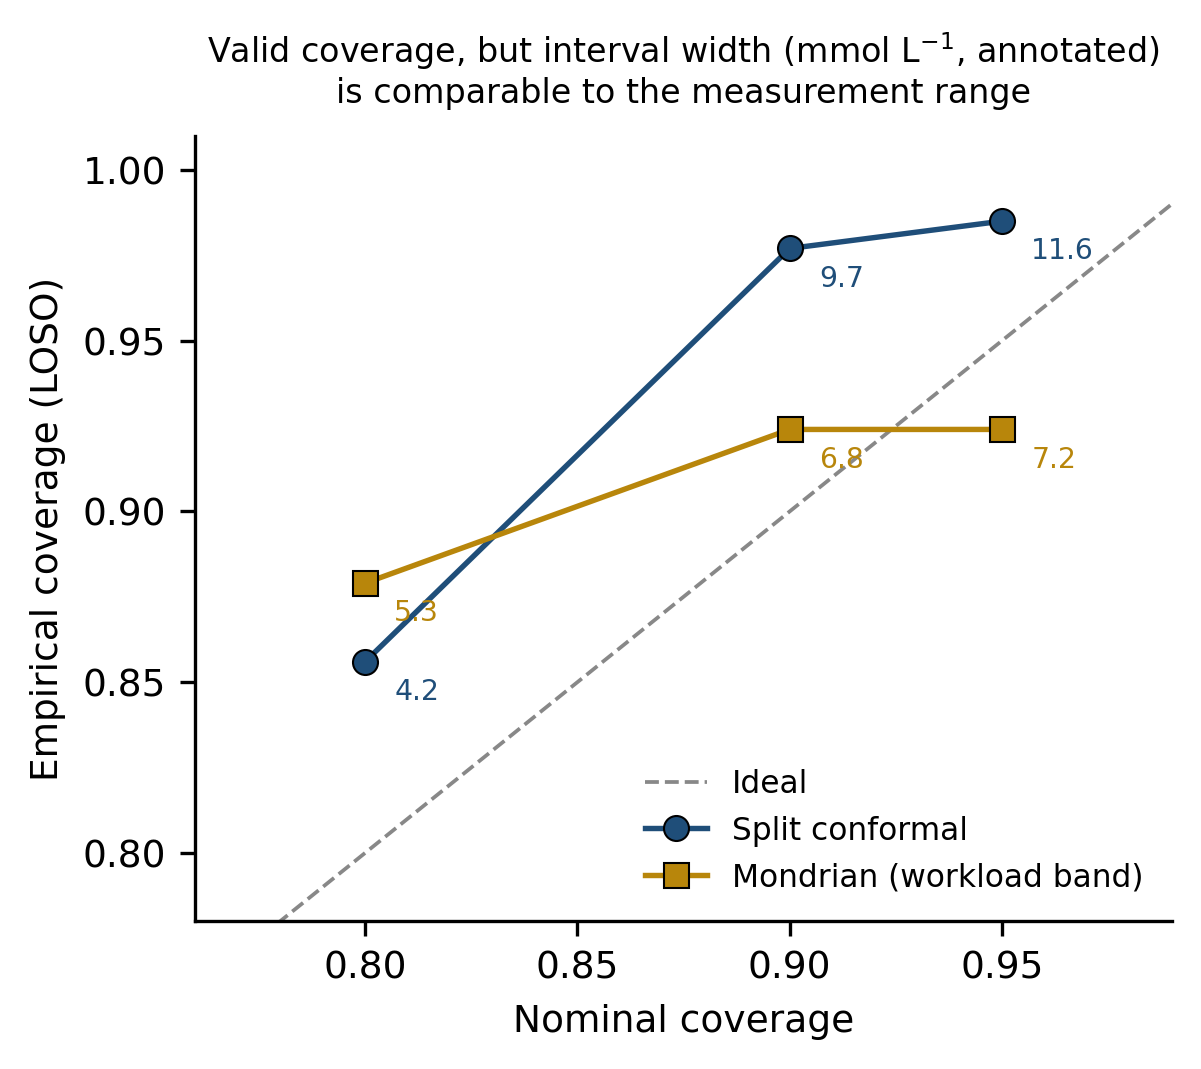
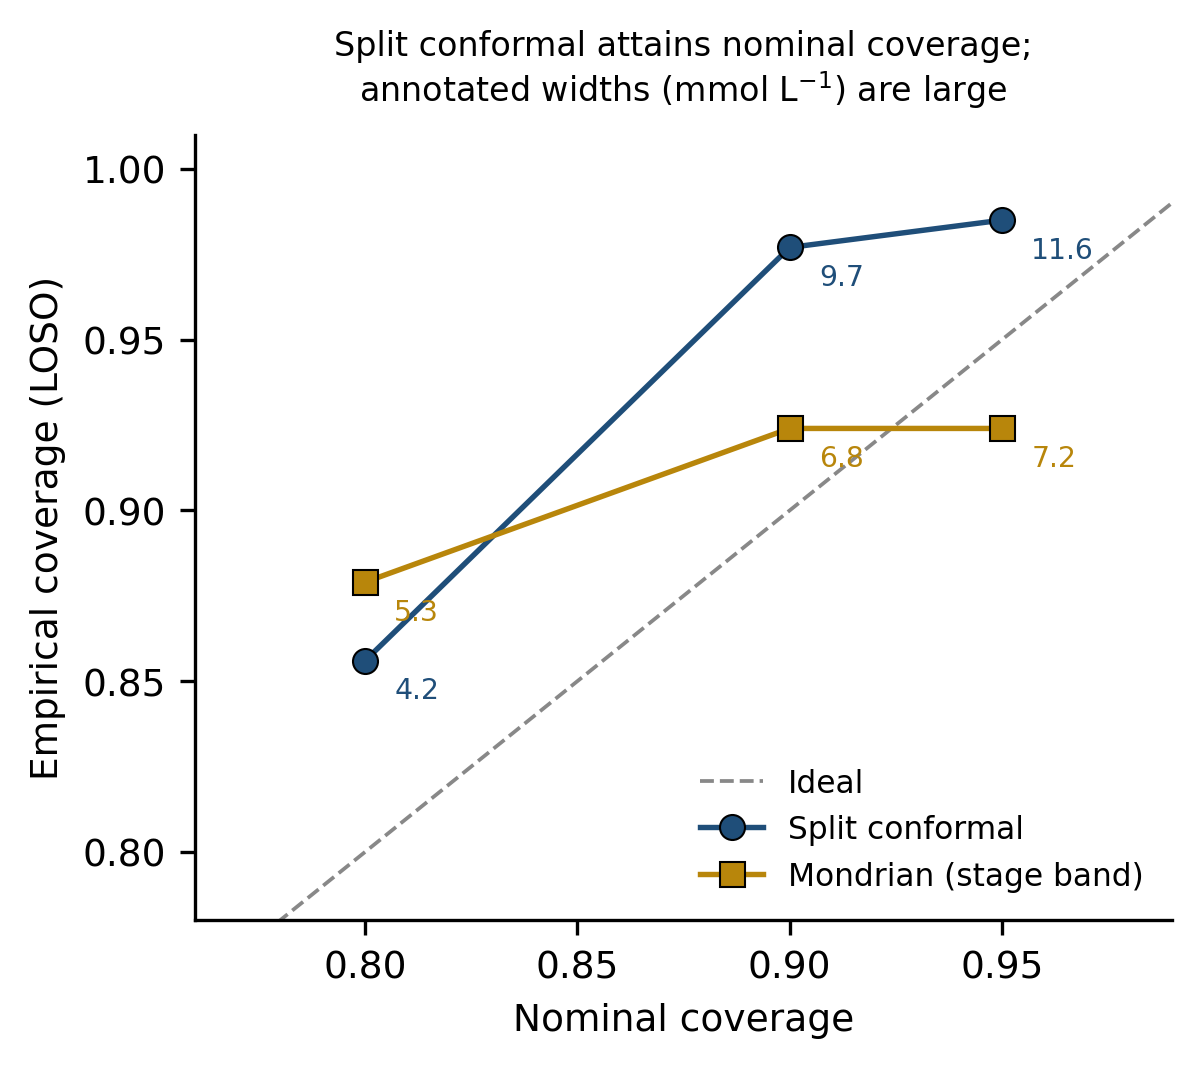
Label Mondrian intervals by stage band and correct coverage figure title
The Mondrian variant bins calibration residuals by exercise stage, so it is
labelled as a stage band. The coverage figure title now states that split
conformal (not both methods) attains nominal coverage.

diff --git a/analysis/make_figures.py b/analysis/make_figures.py
@@ -215,7 +215,7 @@ ax.plot([0.75, 1.0], [0.75, 1.0], '--', color='#888', lw=0.9, label='Ideal', zor
 for meth, mk, col in [('split', 'o', '#1f4e79'), ('mondrian', 's', '#b8860b')]:
     s = conf[conf['method'] == meth].sort_values('nominal')
     ax.plot(s['nominal'], s['empirical'], mk + '-', color=col, ms=6, lw=1.3,
-            label=('Split conformal' if meth == 'split' else 'Mondrian (workload band)'),
+            label=('Split conformal' if meth == 'split' else 'Mondrian (stage band)'),
             zorder=3, mec='black', mew=0.5)
     for _, r in s.iterrows():
         ax.annotate('%.1f' % r['mean_width'], (r['nominal'], r['empirical']),
@@ -225,7 +225,7 @@ ax.set_ylabel('Empirical coverage (LOSO)')
 ax.set_xlim(0.76, 0.99)
 ax.set_ylim(0.78, 1.01)
 ax.legend(frameon=False, fontsize=7.5, loc='lower right')
-ax.set_title('Valid coverage, but interval width (mmol L$^{-1}$, annotated)\nis comparable to the measurement range',
+ax.set_title('Split conformal attains nominal coverage;\nannotated widths (mmol L$^{-1}$) are large',
              fontsize=8, pad=8)
 plt.savefig(FIG / 'fig2_coverage.png')
 plt.close()
